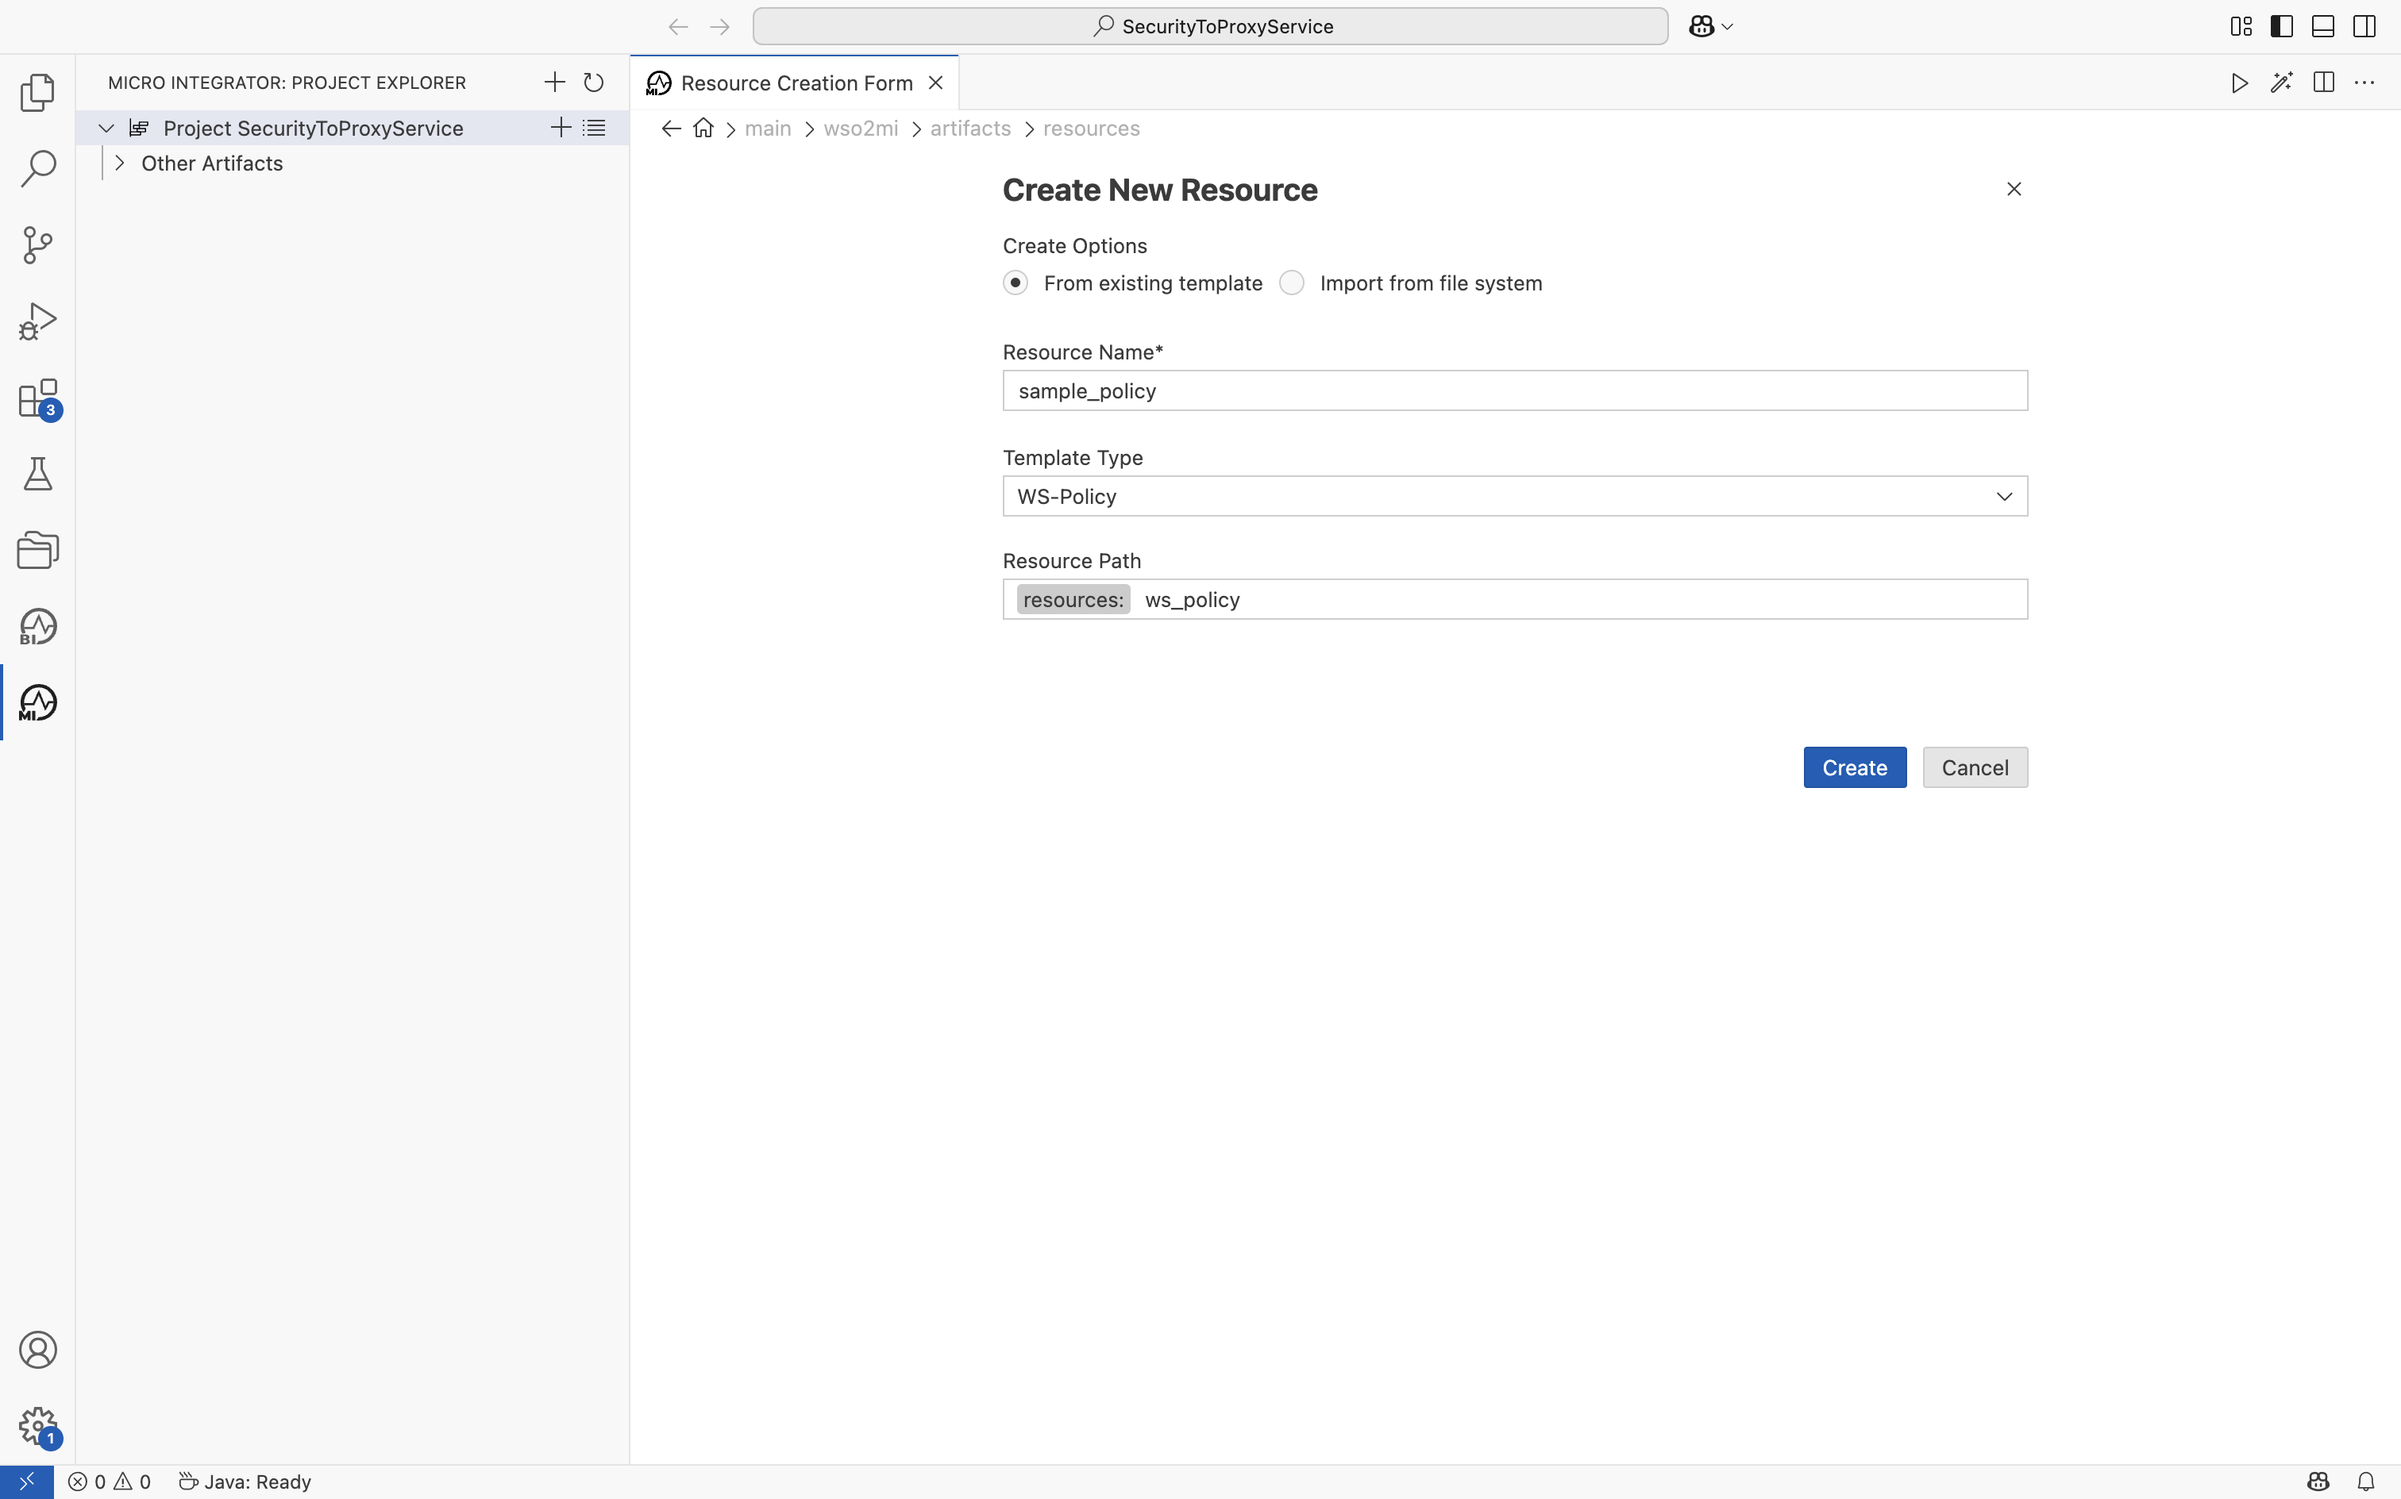
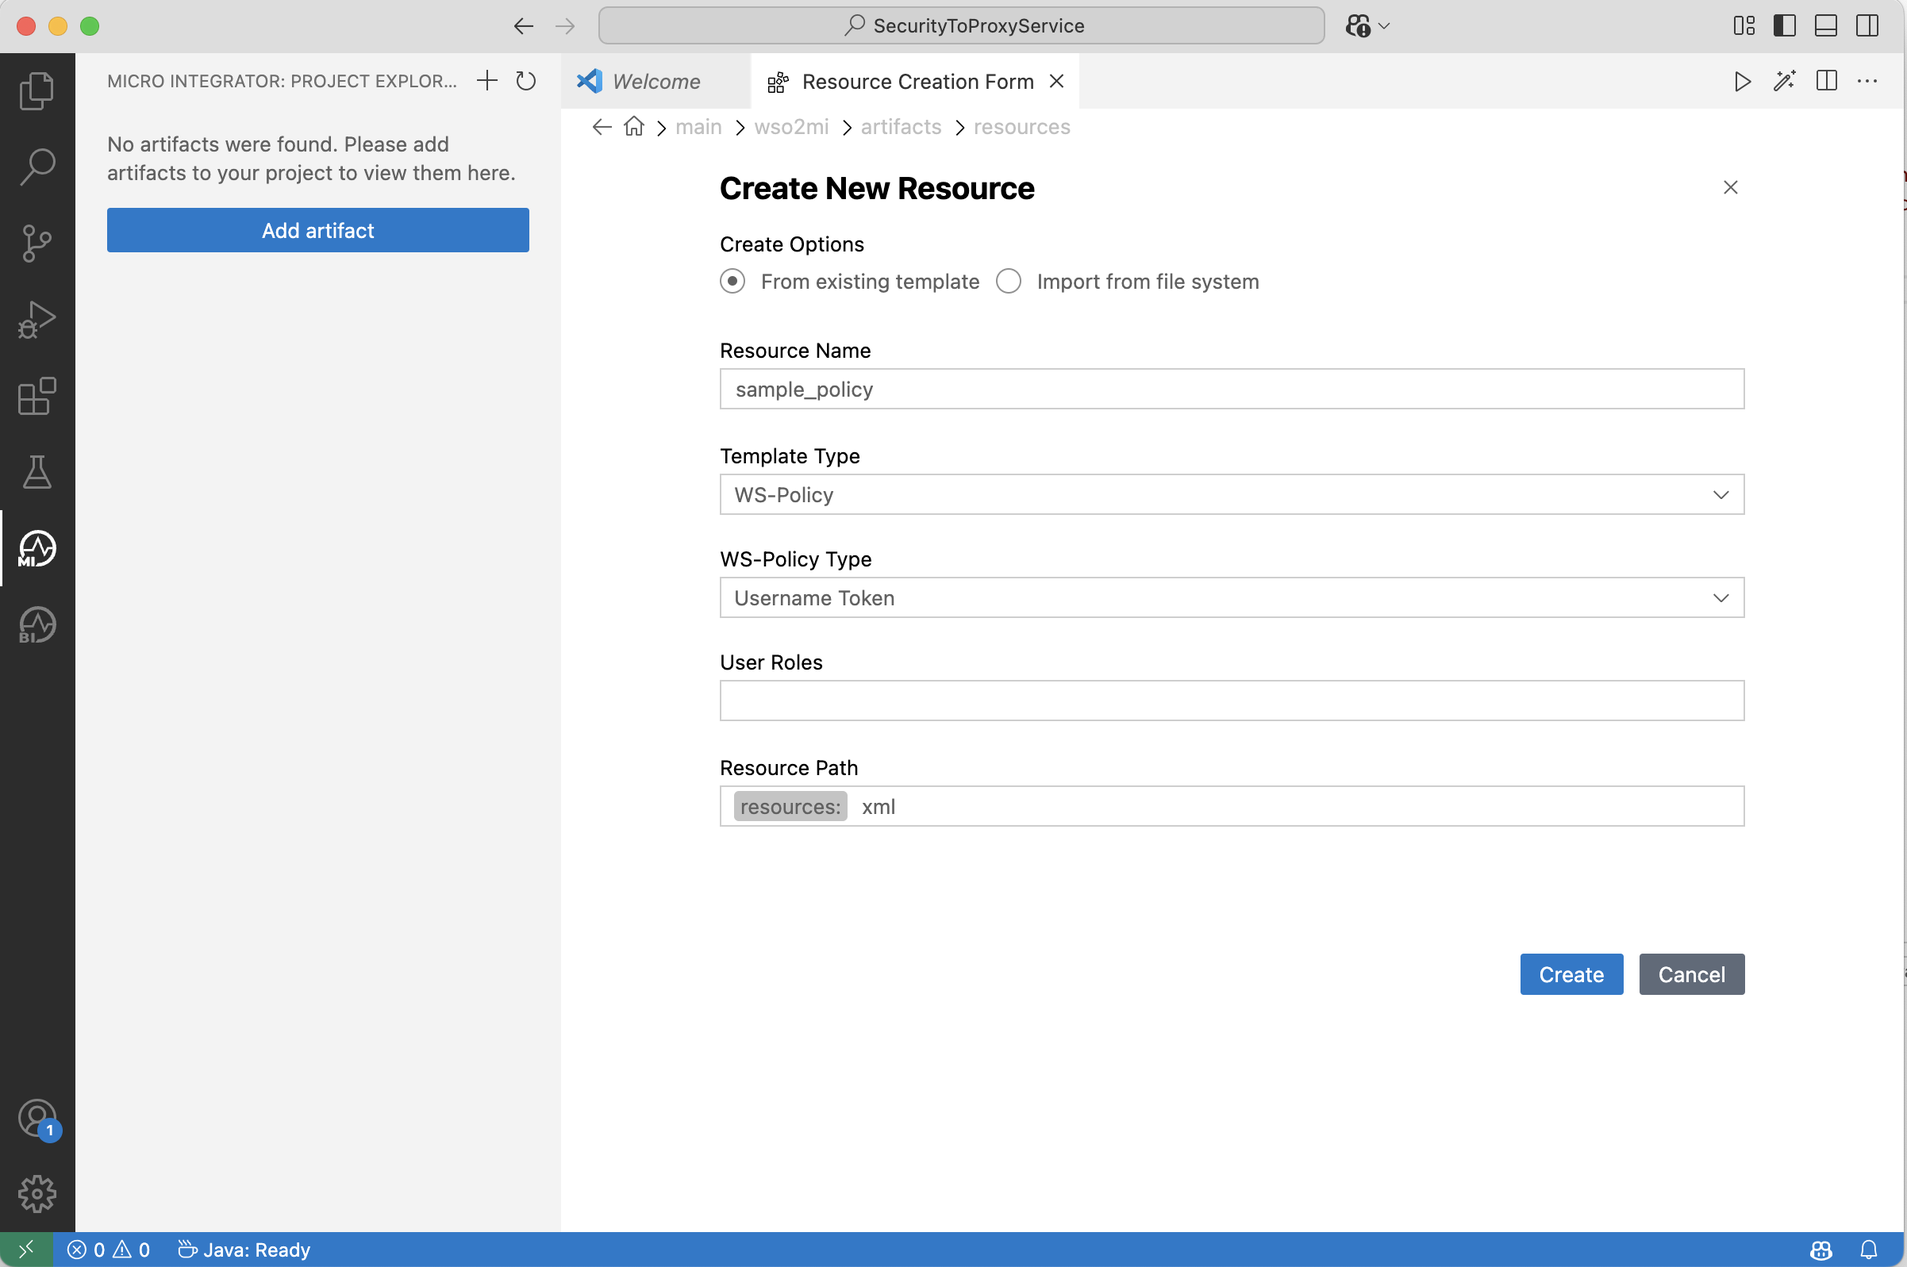
Update add security to proxy service content with new changes
$subject

diff --git a/en/docs/develop/advanced-development/applying-security-to-a-proxy-service.md b/en/docs/develop/advanced-development/applying-security-to-a-proxy-service.md
@@ -21,132 +21,12 @@ Follow the instructions below to create a **WS-Policy** resource in your integra
        **Create Options**: Select `From existing template`.       
        **Resource Name**: Enter a name for the resource.    
        **Template Type**: Select `WS-Policy`.    
+       **WS-Policy Type**: Select the WS Policy type. In this case select `Username Token`. Based on the policy type fill the popping up fields if required.  
        **Resource Path**: Provide the resource path where the resource should be saved.  
        [![Create New Resource]({{base_path}}/assets/img/integrate/apply-security/add-ws-policy/create-resource.png)]({{base_path}}/assets/img/integrate/apply-security/119130870/create-new-registry-resource.png)  
 6. The created policy file will be listed in the project explorer.  
     [![Resource in Project Explorer]({{base_path}}/assets/img/integrate/apply-security/add-ws-policy/resource-view.png)]({{base_path}}/assets/img/integrate/apply-security/119130870/119130883.png)
 
-    !!! Note
-        Currently, the **Design View** of the policy editor is not available in WSO2 MI for VSCode. You can edit the properties via the **Source View**.  
-
-7. Edit the policy file in the **Source View** to enable the required security scenario.  
-    For example, to enable the **Sign and Encrypt** security scenario, add the following encryption/signature properties to the policy file.  
-    **Alias**: `wso2carbon`    
-    **Privatestore**: `wso2carbon.jks`    
-    **Tenant id**: `-1234`    
-    **Truststores**: `wso2carbon.jks`    
-    **User**: `wso2carbon`    
-
-    The following advanced rampart properties have been added to your policy file by default.  
-    **User**: `wso2carbon`    
-    **encryptionUser**: `useReqSigCert`    
-    **timestampPrecisionInMilliseconds**: `true`    
-    **timestampTTL**: `300`    
-    **timestampMaxSkew**: `300`    
-    **timestampStrict**: `false`    
-    **tokenStoreClass**: `org.wso2.carbon.security.util.SecurityTokenStore`    
-    **nonceLifeTime**: `300`    
-
-    The complete policy file with enabled **Sign and Encrypt - X509 Authentication** security scenario will look as follows.
-    ```xml
-    <wsp:Policy wsu:Id="SigEncr" xmlns:wsp="http://schemas.xmlsoap.org/ws/2004/09/policy" xmlns:wsu="http://docs.oasis-open.org/wss/2004/01/oasis-200401-wss-wssecurity-utility-1.0.xsd">
-        <wsp:ExactlyOne>
-            <wsp:All>
-                <sp:AsymmetricBinding xmlns:sp="http://schemas.xmlsoap.org/ws/2005/07/securitypolicy">
-                    <wsp:Policy>
-                        <sp:InitiatorToken>
-                            <wsp:Policy>
-                                <sp:X509Token sp:IncludeToken="http://schemas.xmlsoap.org/ws/2005/07/securitypolicy/IncludeToken/AlwaysToRecipient">
-                                    <wsp:Policy>
-                                        <sp:RequireThumbprintReference/>
-                                        <sp:WssX509V3Token10/>
-                                    </wsp:Policy>
-                                </sp:X509Token>
-                            </wsp:Policy>
-                        </sp:InitiatorToken>
-                        <sp:RecipientToken>
-                            <wsp:Policy>
-                                <sp:X509Token sp:IncludeToken="http://schemas.xmlsoap.org/ws/2005/07/securitypolicy/IncludeToken/Never">
-                                    <wsp:Policy>
-                                        <sp:RequireThumbprintReference/>
-                                        <sp:WssX509V3Token10/>
-                                    </wsp:Policy>
-                                </sp:X509Token>
-                            </wsp:Policy>
-                        </sp:RecipientToken>
-                        <sp:AlgorithmSuite>
-                            <wsp:Policy>
-                                <sp:Basic256/>
-                            </wsp:Policy>
-                        </sp:AlgorithmSuite>
-                        <sp:Layout>
-                            <wsp:Policy>
-                                <sp:Strict/>
-                            </wsp:Policy>
-                        </sp:Layout>
-                        <sp:IncludeTimestamp/>
-                        <sp:OnlySignEntireHeadersAndBody/>
-                    </wsp:Policy>
-                </sp:AsymmetricBinding>
-                <sp:Wss11 xmlns:sp="http://schemas.xmlsoap.org/ws/2005/07/securitypolicy">
-                    <wsp:Policy>
-                        <sp:MustSupportRefKeyIdentifier/>
-                        <sp:MustSupportRefIssuerSerial/>
-                        <sp:MustSupportRefThumbprint/>
-                        <sp:MustSupportRefEncryptedKey/>
-                        <sp:RequireSignatureConfirmation/>
-                    </wsp:Policy>
-                </sp:Wss11>
-                <sp:Wss10 xmlns:sp="http://schemas.xmlsoap.org/ws/2005/07/securitypolicy">
-                    <wsp:Policy>
-                        <sp:MustSupportRefKeyIdentifier/>
-                        <sp:MustSupportRefIssuerSerial/>
-                    </wsp:Policy>
-                </sp:Wss10>
-                <sp:SignedParts xmlns:sp="http://schemas.xmlsoap.org/ws/2005/07/securitypolicy">
-                    <sp:Body/>
-                </sp:SignedParts>
-                <sp:EncryptedParts xmlns:sp="http://schemas.xmlsoap.org/ws/2005/07/securitypolicy">
-                    <sp:Body/>
-                </sp:EncryptedParts>
-            </wsp:All>
-        </wsp:ExactlyOne>
-        <rampart:RampartConfig xmlns:rampart="http://ws.apache.org/rampart/policy">
-            <rampart:user>wso2carbon</rampart:user>
-            <rampart:encryptionUser>useReqSigCert</rampart:encryptionUser>
-            <rampart:timestampPrecisionInMilliseconds>true</rampart:timestampPrecisionInMilliseconds>
-            <rampart:timestampTTL>300</rampart:timestampTTL>
-            <rampart:timestampMaxSkew>300</rampart:timestampMaxSkew>
-            <rampart:timestampStrict>false</rampart:timestampStrict>
-            <rampart:tokenStoreClass>org.wso2.carbon.security.util.SecurityTokenStore
-            </rampart:tokenStoreClass>
-            <rampart:nonceLifeTime>300</rampart:nonceLifeTime>
-            <rampart:encryptionCrypto>
-                <rampart:crypto cryptoKey="org.wso2.carbon.security.crypto.privatestore" provider="org.wso2.carbon.security.util.ServerCrypto">
-                    <rampart:property name="org.wso2.carbon.security.crypto.alias">wso2carbon</rampart:property>
-                    <rampart:property name="org.wso2.carbon.security.crypto.privatestore">wso2carbon.jks</rampart:property>
-                    <rampart:property name="org.wso2.stratos.tenant.id">-1234</rampart:property>
-                    <rampart:property name="org.wso2.carbon.security.crypto.truststores">wso2carbon.jks</rampart:property>
-                    <rampart:property name="rampart.config.user">wso2carbon</rampart:property>
-                </rampart:crypto>
-            </rampart:encryptionCrypto>
-            <rampart:signatureCrypto>
-                <rampart:crypto cryptoKey="org.wso2.carbon.security.crypto.privatestore" provider="org.wso2.carbon.security.util.ServerCrypto">
-                    <rampart:property name="org.wso2.carbon.security.crypto.alias">wso2carbon</rampart:property>
-                    <rampart:property name="org.wso2.carbon.security.crypto.privatestore">wso2carbon.jks</rampart:property>
-                    <rampart:property name="org.wso2.stratos.tenant.id">-1234</rampart:property>
-                    <rampart:property name="org.wso2.carbon.security.crypto.truststores">wso2carbon.jks</rampart:property>
-                    <rampart:property name="rampart.config.user">wso2carbon</rampart:property>
-                </rampart:crypto>
-            </rampart:signatureCrypto>
-        </rampart:RampartConfig>
-    </wsp:Policy>
-    ```
-    
-    !!! Info 
-        - Change the tokenStoreClass in the policy file to `org.wso2.micro.integrator.security.extensions.SecurityTokenStore`
-        
-        - Replace ServerCrypto class with `org.wso2.micro.integrator.security.util.ServerCrypto` if present.
         
 <!--
 #### Specifying role-based access?
